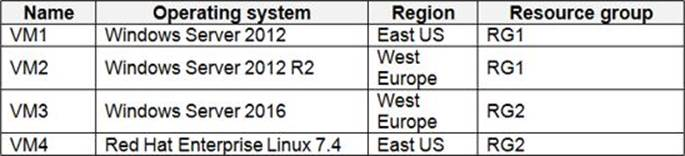
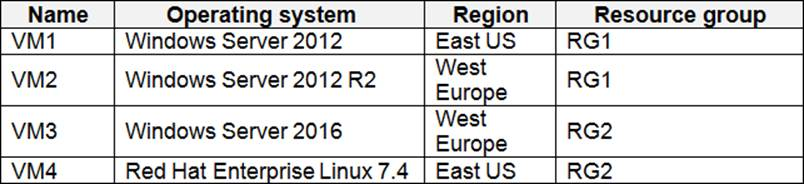
Delete: some duplicated questions

Changed region(s): [[0.0, 0.0, 1.0, 1.0], [0.0, 0.641, 0.092, 0.7949], [0.0, 0.3846, 0.092, 0.4872]]

diff --git a/README.md b/README.md
@@ -727,14 +727,16 @@ On June 15,2019, User3 can activate the Contributor role.
 - [ ] VM1 and VM3 only.
 - [ ] VM1, VM2, VM3, and VM4.
 
-### This is a case study. Case studies are not timed separately. You can use as much exam time as you would like to complete each case. However, there may be additional case studies and sections on this exam. You must manage your time to ensure that you are able to complete all questions included on this exam in the time provided. To answer the questions included in a case study, you will need to reference information that is provided in the case study. Case studies might contain exhibits and other resources that provide more information about the scenario that is described in the case study. Each question is independent of the other question on this case study. At the end of this case study, a review screen will appear. This screen allows you to review your answers and to make changes before you move to the next sections of the exam. After you begin a new section, you cannot return to this section. To start the case study To display the first question on this case study, click the Next button. Use the buttosin the left pane to explore the content of the case study before you answer the questions. Clicking these buttons displays information such as business requirements, existing environment, and problem statements. If the case study has an All Information tab, note that the information displayed is identical to the information displayed on the subsequent tabs. When you are ready to answer a question, click the Question button to return to the question. Overview Litware, Inc. is a digital media company that has 500 employees in the Chicago area and 20 employees in the San Francisco area. Existing Environment Litware has an Azure subscription named Sub1 that has a subscription ID of 43894a43-17c2-4a39-8cfc-3540c2653ef4. Sub1 is associated to an Azure Active Directory (Azure AD) tenant named litwareinc.com. The tenant contains the user objects and the device objects of all the Litware employees and their devices. Each user is assigned an Azure AD Premium P2 license. Azure AD Privileged Identity Management (PIM) isactivated.The tenant contains the groups shown in the following table. The Azure subscription contains the objects shown in the following table.Azure Security Center is set to the Free tier. Planned changes Litware plans to deploy the Azure resources shown in the following table.dentity and Access Requirements Litware identifies the following identity and access requirements: ✑ All San Francisco users and their devices must be members of Group1. ✑ The members of Group2 must be assigned the Contributor role to Resource Group2 by using a permanent eligible assignment. ✑ Users must be prevented from registering applications in Azure AD and from consenting to applications that access company information on the users' behalf. Platform Protection Requirements Litware identifies the following platform protection requirements: ✑ Microsoft Antimalware must be installed on the virtual machines in Resource Group1. ✑ The members of Group2 must be assigned the Azure Kubernetes Service Cluster Admin Role. ✑ Azure AD users must be to authenticate to AKS1 by using their Azure AD credentials. ✑ Following the implementation of the planned changes, the IT team must be able to connect to VM0 by using JIT VM access. ✑ A new custom RBAC role named Role1 must be used to delegate the administration of the managed disks in Resource Group1. Role1 must be available only for Resource Group1. Security Operations Requirements Litware must be able to customize the operating system security configurations in Azure Security Center. HOTSPOT You need to create Role1 to meet the platform protection requirements. How should you complete the role definition of Role1? To answer, select the appropriate options in the answer area. NOTE: Each correct selection is worth one point
+### Overview Litware, Inc. is a digital media company that has 500 employees in the Chicago area and 20 employees in the San Francisco area. Existing Environment Litware has an Azure subscription named Sub1 that has a subscription ID of 43894a43-17c2-4a39-8cfc-3540c2653ef4. Sub1 is associated to an Azure Active Directory (Azure AD) tenant named litwareinc.com. The tenant contains the user objects and the device objects of all the Litware employees and their devices. Each user is assigned an Azure AD Premium P2 license. Azure AD Privileged Identity Management (PIM) isactivated. The tenant contains the groups shown in the following table. The Azure subscription contains the objects shown in the following table.Azure Security Center is set to the Free tier. Planned changes Litware plans to deploy the Azure resources shown in the following table.dentity and Access Requirements Litware identifies the following identity and access requirements: All San Francisco users and their devices must be members of Group1. The members of Group2 must be assigned the Contributor role to Resource Group2 by using a permanent eligible assignment. Users must be prevented from registering applications in Azure AD and from consenting to applications that access company information on the users' behalf. Platform Protection Requirements Litware identifies the following platform protection requirements: Microsoft Antimalware must be installed on the virtual machines in Resource Group1. The members of Group2 must be assigned the Azure Kubernetes Service Cluster Admin Role. Azure AD users must be to authenticate to AKS1 by using their Azure AD credentials. Following the implementation of the planned changes, the IT team must be able to connect to VM0 by using JIT VM access. A new custom RBAC role named Role1 must be used to delegate the administration of the managed disks in Resource Group1. Role1 must be available only for Resource Group1. Security Operations Requirements Litware must be able to customize the operating system security configurations in Azure Security Center. You need to create Role1 to meet the platform protection requirements. How should you complete the role definition of Role1?
 
 ![Question 51 part 1](images/question51_1.jpg)
 ![Question 51 part 2](images/question51_2.jpg)
 ![Question 51 part 3](images/question51_3.jpg)
 ![Question 51 part 4](images/question51_4.jpg)
 
-- [ ] BRAK ODPOWIEDZI
+- [x] Box 1: "Microsoft.Compute/ Box 2: disks/". Box 3: "/subscription/4389a43-17c24a39-8cfc-3540c2653ef4/resourceGrups/RG1".
+- [ ] Box 1: "Microsoft.Resources/ Box 2: storageAccounts/\*", Box 4: /subscription/4389a43-17c24a39-8cfc-3540c2653ef4.
+- [ ] Box 1: "Microsoft.Storage/ Box 2: virtualMachines/disks/\*"/, Box 3: "/" .
 
 ### You have an Azure subscription that contains the virtual machines shown in the following table. From Azure Security Center, you turn on Auto Provisioning. You deploy the virtual machines shown in the following table. On which virtual machines is the Microsoft Monitoring agent installed?
 
@@ -1466,14 +1468,6 @@ User3 will be promped to configure MFA registration during the user's next Azure
 - [x] Yes.
 - [ ] No.
 
-### You need to create Role1 to meet the platform protection requirements. How should you complete the role definition of Role1? To answer, select the appropriate options in the answer area. NOTE: Each correct selection is worth one point
-
-![Question 304 part 1](images/question303.jpg)
-
-- [x] Box 1: "Microsoft.Compute/ Box 2: disks/". Box 3: "/subscription/4389a43-17c24a39-8cfc-3540c2653ef4/resourceGrups/RG1".
-- [ ] Box 1: "Microsoft.Resources/ Box 2: storageAccounts/\*", Box 4: /subscription/4389a43-17c24a39-8cfc-3540c2653ef4.
-- [ ] Box 1: "Microsoft.Storage/ Box 2: virtualMachines/disks/\*"/, Box 3: "/" .
-
 ### You need to configure a virtual network named VNET2 to meet the following requirements: Administrators must be prevented from deleting VNET2 accidentally. Administrators must be able to add subnets to VNET2 regularly. To complete this task, sign in to the Azure portal and modify the Azure resources
 
 - [ ] BRAK ODPOWIEDZI
@@ -1967,27 +1961,9 @@ If User3 sings in from a computer containing malware that is communicating with 
 ![Question 571 part 2](images/question571_2.jpg)
 ![Question 571 part 3](images/question571_3.jpg)
 
-### You plan to use Azure Resource Manager templates to perform multiple deployments of identically configured Azure virtual machines. The password for the administrator account of each deployment is stored as a secret in different Azure Key Vaults. You need to identify a method to dynamically construct a resource ID that will designate the key vault containing the appropriate secret during each deployment. The name of the key vault and the name of the secret will be provided as inline parameters. What should you use to construct the resource ID?
-
-![Question 572](images/question572.jpg)
-
-- [ ] a key vault access policy.
-- [ ] a linked template.
-- [x] a parameters file.
-- [ ] an automation account.
-
 ### The developers at your company plan to publish an app named App11641655 to Azure. You need to ensure that the app is registered to Azure Active Directory (Azure AD). The registration must use the sign-on URLs of <https://app.contoso.com>. To complete this task, sign in to the Azure portal and modify the Azure resources
 
 - [ ] BRAK ODPOWIEDZI
-
-### You have two Azure virtual machines in the East US2 region as shown in the following table. You deploy and configure an Azure Key vault. You need to ensure that you can enable Azure Disk Encryption on VM1 and VM2. What should you modify on each virtual machine? To answer, select the appropriate options in the answer area. NOTE: Each correct selection is worth one point. VM1: VM2
-
-![Question 576 part 1](images/question576_1.jpg)
-![Question 576 part 2](images/question576_2.jpg)
-
-- [ ] Box 1: The tier Box 2: The type
-- [ ] Box 1: The type Box 2: Tier Box .
-- [ ] Box 1: The opperating sysem version Box 2: The tier.
 
 ### Note: This question is part of a series of questions that present the same scenario. Each question in the series contains a unique solution that might meet the stated goals. Some question sets might have more than one correct solution, while others might not have a correct solution. After you answer a question in this section, you will NOT be able to return to it. As a result, these questions will not appear in the review screen. You use Azure Security Center for the centralized policy management of three Azure subscriptions. You use several policy definitions to manage the security of the subscriptions. You need to deploy the policy definitions as a group to all three subscriptions. Solution: You create a policy definition and assignments that are scoped to resource groups. Does this meet the goal?
 
@@ -2034,34 +2010,6 @@ User3 will be prompted to configure MFA registration during the user's next Azur
 - [ ] Box 1: Append Box 2: The wxlusion settings.
 - [ ] Box 1: Deny Box 2: The scope.
 - [x] Box 1: DeployIfNotExists Box 2: The Create a Managed Identity setting.
-
-### You need to ensure that users can access VM0. The solution must meet the platform protection requirements. What should you do?
-
-![Question 611 part 1](images/question611_1.jpg)
-![Question 611 part 2](images/question611_2.jpg)
-
-- [x] Move VM0 to Subnet1.
-- [ ] On Firewall, configure a network traffic filtering rule..
-- [ ] Assign RT1 to AzureFirewallSubnet..
-- [ ] On Firewall, configure a DNAT rule.
-
-### You have two Azure virtual machines in the East US 2 region as shown in the following table. You deploy and configure an Azure Key vault. You need to ensure that you can enable Azure Disk Encryption on VM1 and VM2. What should you modify on each virtual machine? To answer, select the appropriate options in the answer area. NOTE: Each correct selection is worth one point. VM1: VM2
-
-![Question 615 part 1](images/question615_1.jpg)
-![Question 615 part 2](images/question615_2.jpg)
-
-- [ ] Box 1: The operating system version Box 2:
-- [x] Box 1: The tier Box 2: The type.
-- [ ] Box 1: The type Box 2:The operating system version.
-
-### You have the Azure virtual machines shown in the following table. You create an Azure Log Analytics workspace named Analytics1 in RG1 in the East US region. Which virtual machines can be enrolled in Analytics1?
-
-![Question 615](images/question615.jpg)
-
-- [x] VM1 only.
-- [ ] VM1, VM2, and VM3 only.
-- [ ] VM1, VM2, VM3, and VM4.
-- [ ] VM1 and VM4 only.
 
 ### You have an Azure subscription named Sub1. You create a virtual network that contains one subnet. On the subnet, you provision the virtual machines shown in the following table. Currently, you have not provisioned any network security groups (NSGs). You need to implement network security to meet the following requirements: – Allow traffic to VM4 from VM3 only. – Allow traffic from the Internet to VM1 and VM2 only. – Minimize the number of NSGs and network security rules. How many NSGs and network security rules should you create? To answer, select the appropriate options in the answer area. NOTE: Each correct selection is worth one point. NSGs: Network security rules
 
